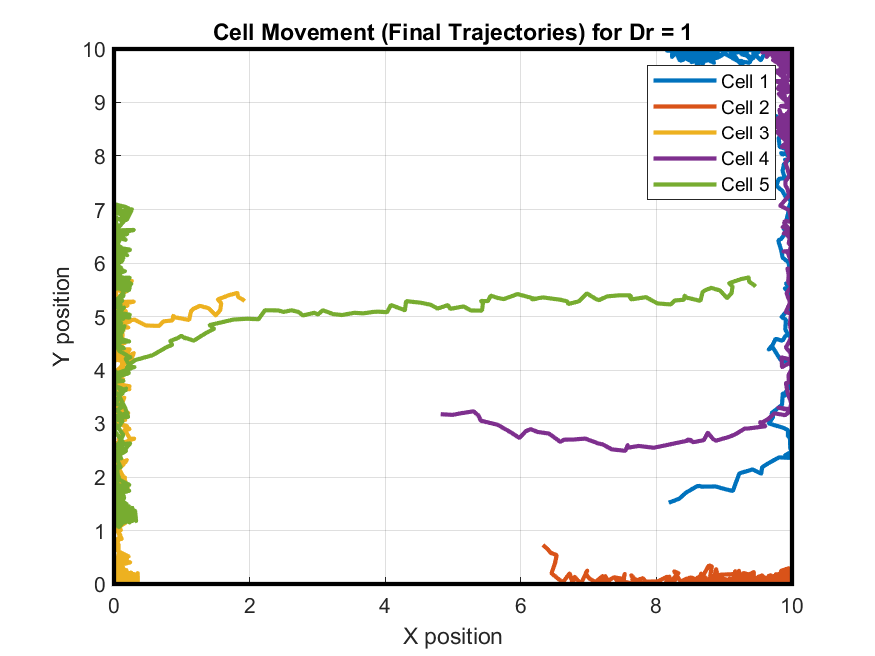
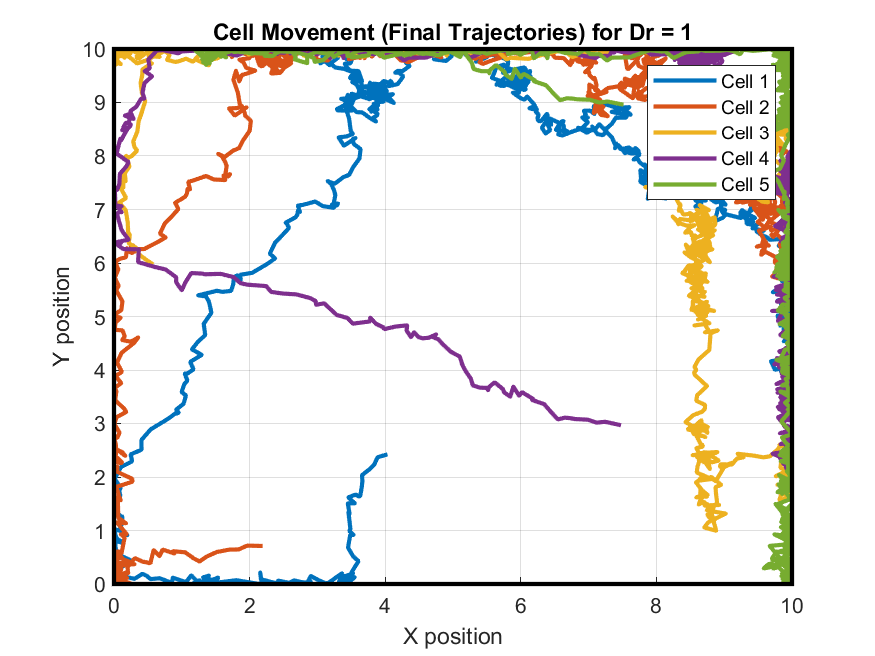
CIL component

diff --git a/Models_2024_04/Model1_2D_Hconst_multi_ref_boundary.m b/Models_2024_04/Model1_2D_Hconst_multi_ref_boundary.m
@@ -1,0 +1,213 @@
+close all; clear all; clc;
+start_time_full = tic;
+
+%%%%%%%%%%%%%%%%%%%%%%%%%%%%%%%%%%%%%%%%%%%%%%%%%%%%%%%%%%%%%%%%%%%%%%%%%%%%%%%%%%
+%           Euler-Maruyama method on Smeets Model for multiple cells             %
+%                  MULTI-CELL MODEL WITH REFLECTIVE BOUNDARY                     %
+%                                                                                %
+%   1) Eq. of Motion: Fm*{cos(θ),sin(θ)} = gamma_s*v_i + dfW2(t)                 %
+%   2) Eq. Repolarization SDE: d(θ)/dt = sqrt(2*Dr) * dfW1(t)                    %
+%   3) Eq. Repolarization direction: p_i_f = -Σ[(2*a_ij^2/d_ij^3)*(c_ij-x_ij)]   %
+%   4) Eq. direction vector: p_i_f = (cosθ*_i , sinθ*_i)^T                       %
+%   5) Eq. Repolarization CIL: d(θ)/dt = -fCIL(θi - θ*_i) + ξ * sqrt(2*Dr)       %
+%   6) Eq. of Intercellular Force: 2/R * [Ws - (Ws + Wc)/R * (dij - R)]          %
+%   7) Reflective Boundary Conditions                                            %
+%                                                                                %
+%%%%%%%%%%%%%%%%%%%%%%%%%%%%%%%%%%%%%%%%%%%%%%%%%%%%%%%%%%%%%%%%%%%%%%%%%%%%%%%%%%
+
+%% SET UP
+Dr_values = [0.1, 0.5, 1, 5, 100];
+num_cells = 5;  % Number of cells
+colors = lines(num_cells);  % Colors for each cell
+Wc = 1; % Cell-cell adhesion energy 
+Ws = 1; % Cell-substrate adhesion energy 
+R = 1;  % Cell radius
+interaction_threshold = 2 * R;  % Set to 2R as per the model
+
+% Simulation domain boundaries
+L = 10;  % Simulation square domain [0, L] x [0, L]
+
+for dr_val = 1:length(Dr_values)
+    start_time_model = tic;
+    
+    % Model Parameters
+    Fm = 1; 
+    gamma_s = 1; 
+    Dr = Dr_values(dr_val); 
+    alpha = 2.5;
+    
+    % Simulation Parameters
+    dt = 0.1; 
+    T = 100; 
+    Nts = floor(T/dt); 
+    Nts2 = linspace(0, T, Nts); 
+    
+    % Pre-allocate matrices for all cells
+    x_array = zeros(Nts, num_cells); 
+    y_array = zeros(Nts, num_cells); 
+    theta_array = zeros(Nts, num_cells);
+
+    for cell_idx = 1:num_cells    
+        % Definition for Fractional Brownian Motion for orientation (theta)
+        dfW1 = zeros(Nts,1); 
+        fbm_noise1 = fbm(Nts2, 0.5); % fBm with constant H = 0.5
+        dfW1(2:end) = diff(fbm_noise1);
+
+        % Definition for Fractional Brownian Motion for X and Y positions
+        dfW2_x = zeros(Nts, 1); 
+        dfW2_y = zeros(Nts, 1);
+        fbm_noise2_x = fbm(Nts2, 0.5); % fBm with constant H = 0.5
+        fbm_noise2_y = fbm(Nts2, 0.5);
+        dfW2_x(2:end) = diff(fbm_noise2_x);
+        dfW2_y(2:end) = diff(fbm_noise2_y);
+
+        % Initial conditions for each cell
+        x_array(1, cell_idx) = rand * L;  % Random initial X position within [0, L]
+        y_array(1, cell_idx) = rand * L;  % Random initial Y position within [0, L]
+        theta_array(1, cell_idx) = rand * 2 * pi;  % Random initial orientation
+    end
+
+    %% SIMULATION FOR ALL CELLS
+    for t = 2:Nts
+        for cell_idx = 1:num_cells
+            p_i_f_x = 0;  % direction vector in x
+            p_i_f_y = 0;  % direction vector in y
+            num_contacts = 0;
+
+            % CIL
+            for other_cell = 1:num_cells
+                if other_cell ~= cell_idx
+                    % Distance between cells
+                    d_ij = sqrt((x_array(t-1, cell_idx) - x_array(t-1, other_cell))^2 + ...
+                                (y_array(t-1, cell_idx) - y_array(t-1, other_cell))^2);
+
+                    if d_ij <= interaction_threshold
+                        % a_ij = (x_i - x_j) + 2R
+                        a_ij = (x_array(t-1, cell_idx) - x_array(t-1, other_cell)) + 2*R;
+
+                        % c_ij = x_i + d_ij / 2
+                        c_ij_x = x_array(t-1, cell_idx) + (x_array(t-1, other_cell) - x_array(t-1, cell_idx)) / 2;
+                        c_ij_y = y_array(t-1, cell_idx) + (y_array(t-1, other_cell) - y_array(t-1, cell_idx)) / 2;
+
+                        % Eq. Repolarization direction: p_i_f = -Σ[(2*a_ij^2/d_ij^3)*(c_ij-x_ij)] 
+                        p_i_f_x = p_i_f_x - (2 * a_ij^2 / d_ij^3) * (c_ij_x - x_array(t-1, cell_idx));
+                        p_i_f_y = p_i_f_y - (2 * a_ij^2 / d_ij^3) * (c_ij_y - y_array(t-1, cell_idx));
+                        num_contacts = num_contacts + 1;
+                    end
+                end
+            end
+
+            % Eq. Repolarization CIL or SDE
+            if num_contacts > 0
+                % direction vector: p_i_f = (cosθ*_i , sinθ*_i)^T  ->  Free angle: θ*_i = tan^-1(p_i_f_y, p_i_f_x)
+                theta_star_i = atan2(p_i_f_y, p_i_f_x);
+
+                %  Eq. Repolarization CIL (with contact)
+                fCIL = 0.1;
+                dtheta = -fCIL * (theta_array(t-1, cell_idx) - theta_star_i) + dfW1(t) * sqrt(2*Dr);
+            else
+                % Eq. Repolarization SDE (without contact)
+                dtheta = sqrt(2*Dr) * dfW1(t);
+            end
+            % Update angle
+            theta_array(t, cell_idx) = theta_array(t-1, cell_idx) + dtheta * dt;
+
+            % Eq. of Motion for X and Y
+            dx_dt = (Fm * cos(theta_array(t, cell_idx)) - alpha * dfW2_x(t)) / gamma_s;
+            dy_dt = (Fm * sin(theta_array(t, cell_idx)) - alpha * dfW2_y(t)) / gamma_s;
+            
+            %% Interaction with other cells
+            for other_cell = 1:num_cells
+                if other_cell ~= cell_idx
+                    % Distance between cells
+                    d_ij = sqrt((x_array(t-1, cell_idx) - x_array(t-1, other_cell))^2 + ...
+                                (y_array(t-1, cell_idx) - y_array(t-1, other_cell))^2);
+                    
+                    if d_ij <= interaction_threshold
+                        % Eq. of Intercellular Force
+                        F_int = (2/R) * (Ws - ((Ws + Wc)/R) * (d_ij - R));
+
+                        % Avoid division by zero
+                        if d_ij ~= 0
+                            % Components of the force
+                            dx_dt = dx_dt + F_int * (x_array(t-1, cell_idx) - x_array(t-1, other_cell)) / d_ij;
+                            dy_dt = dy_dt + F_int * (y_array(t-1, cell_idx) - y_array(t-1, other_cell)) / d_ij;
+                        else
+                            % If cells are at the exact same position, apply a random small force to separate them
+                            theta_rand = rand * 2 * pi;
+                            dx_dt = dx_dt + F_int * cos(theta_rand);
+                            dy_dt = dy_dt + F_int * sin(theta_rand);
+                        end
+                    end
+                end
+            end
+            
+            % Update position
+            new_x = x_array(t-1, cell_idx) + dx_dt * dt;
+            new_y = y_array(t-1, cell_idx) + dy_dt * dt;
+            
+            %% Reflective Boundary Conditions
+            % Check and enforce boundaries for X
+            if new_x < 0
+                new_x = -new_x;  % Reflect position
+                dx_dt = -dx_dt;  % Reverse velocity component
+            elseif new_x > L
+                new_x = 2*L - new_x;
+                dx_dt = -dx_dt;
+            end
+
+            % Check and enforce boundaries for Y
+            if new_y < 0
+                new_y = -new_y;
+                dy_dt = -dy_dt;
+            elseif new_y > L
+                new_y = 2*L - new_y;
+                dy_dt = -dy_dt;
+            end
+            
+            % Update position
+            x_array(t, cell_idx) = new_x;
+            y_array(t, cell_idx) = new_y;
+        end
+    end
+
+    % ------------------------  OUTPUTS  ------------------------ %
+
+    % Path for 'Output_Trajectories'
+    current_folder = fileparts(mfilename('fullpath'));
+    output_folder = fullfile(current_folder, 'Output_Trajectories_Boundary');
+
+    % Create folder if it doesn't exist
+    if ~exist(output_folder, 'dir')
+        mkdir(output_folder);
+    end
+
+    %% Plot final trajectories for all cells with distinct colors
+    figure;
+    hold on;
+    for cell_idx = 1:num_cells
+        plot(x_array(:, cell_idx), y_array(:, cell_idx), 'Color', colors(cell_idx,:), 'LineWidth', 2);
+    end
+    % Draw the boundary for visualization
+    rectangle('Position', [0, 0, L, L], 'EdgeColor', 'k', 'LineWidth', 2);
+    xlabel('X position');
+    ylabel('Y position');
+    title(['Cell Movement (Final Trajectories) for Dr = ', num2str(Dr)]);
+    legend(arrayfun(@(x) ['Cell ', num2str(x)], 1:num_cells, 'UniformOutput', false));
+    grid on;
+    hold off;
+    
+    % Name the file according to the Dr value
+    file_name = fullfile(output_folder, sprintf('Trajectory_Simulation_Boundary_Dr=%d.png', Dr));
+    
+    % Save the graph as PNG, overwrite if necessary
+    saveas(gcf, file_name);
+    
+    % Show the ejecution time for each simulation
+    end_time = toc(start_time_model);
+    fprintf('Completed Model for Dr=%.2f in: %.2f seconds\n', Dr_values(dr_val), end_time);
+end
+
+% Show the total ejecution time
+end_time_full = toc(start_time_full);
+fprintf('Completed ALL simulations in: %.2f seconds\n', end_time_full);

diff --git a/Models_2024_04/Model1_2D_Hconst_multi_per_boundary.m b/Models_2024_04/Model1_2D_Hconst_multi_per_boundary.m
@@ -3,12 +3,15 @@ start_time_full = tic;
 
 %%%%%%%%%%%%%%%%%%%%%%%%%%%%%%%%%%%%%%%%%%%%%%%%%%%%%%%%%%%%%%%%%%%%%%%%%%%%%%%%%%
 %           Euler-Maruyama method on Smeets Model for multiple cells             %
-%                        MULTI-CELL MODEL WITH BOUNDARY                          %
+%                  MULTI-CELL MODEL WITH REFLECTIVE BOUNDARY                     %
 %                                                                                %
-%   1) Eq. of Motion: Fm*{cos(theta),sin(theta)} = gamma_s*v_i + dfW2(t)         %
-%   2) Eq. Repolarization SDE: d(theta)/dt = sqrt(2*Dr)*dfW1(t)                  %
-%   3) Eq. of Intercellular Force: 2/R * [Ws - (Ws + Wc)/R * (dij - R)]          %
-%   4) Reflective Boundary Conditions                                            %
+%   1) Eq. of Motion: Fm*{cos(θ),sin(θ)} = gamma_s*v_i + dfW2(t)                 %
+%   2) Eq. Repolarization SDE: d(θ)/dt = sqrt(2*Dr) * dfW1(t)                    %
+%   3) Eq. Repolarization direction: p_i_f = -Σ[(2*a_ij^2/d_ij^3)*(c_ij-x_ij)]   %
+%   4) Eq. direction vector: p_i_f = (cosθ*_i , sinθ*_i)^T                       %
+%   5) Eq. Repolarization CIL: d(θ)/dt = -fCIL(θi - θ*_i) + ξ * sqrt(2*Dr)       %
+%   6) Eq. of Intercellular Force: 2/R * [Ws - (Ws + Wc)/R * (dij - R)]          %
+%   7) Reflective Boundary Conditions                                            %
 %                                                                                %
 %%%%%%%%%%%%%%%%%%%%%%%%%%%%%%%%%%%%%%%%%%%%%%%%%%%%%%%%%%%%%%%%%%%%%%%%%%%%%%%%%%
 
@@ -16,7 +19,7 @@ start_time_full = tic;
 Dr_values = [0.1, 0.5, 1, 5, 100];
 num_cells = 5;  % Number of cells
 colors = lines(num_cells);  % Colors for each cell
-Wc = 2; % Cell-cell adhesion energy 
+Wc = 1; % Cell-cell adhesion energy 
 Ws = 1; % Cell-substrate adhesion energy 
 R = 1;  % Cell radius
 interaction_threshold = 2 * R;  % Set to 2R as per the model
@@ -43,8 +46,8 @@ for dr_val = 1:length(Dr_values)
     x_array = zeros(Nts, num_cells); 
     y_array = zeros(Nts, num_cells); 
     theta_array = zeros(Nts, num_cells);
-    
-    for cell_idx = 1:num_cells
+
+    for cell_idx = 1:num_cells    
         % Definition for Fractional Brownian Motion for orientation (theta)
         dfW1 = zeros(Nts,1); 
         fbm_noise1 = fbm(Nts2, 0.5); % fBm with constant H = 0.5
@@ -67,11 +70,49 @@ for dr_val = 1:length(Dr_values)
     %% SIMULATION FOR ALL CELLS
     for t = 2:Nts
         for cell_idx = 1:num_cells
-            % Eq. Repolarization SDE: d(theta)/dt = sqrt(2*Dr)*dfW1(t)
-            dtheta = sqrt(2*Dr) * dfW1(t);
+            p_i_f_x = 0;  % direction vector in x
+            p_i_f_y = 0;  % direction vector in y
+            num_contacts = 0;
+
+            % CIL
+            for other_cell = 1:num_cells
+                if other_cell ~= cell_idx
+                    % Distance between cells
+                    d_ij = sqrt((x_array(t-1, cell_idx) - x_array(t-1, other_cell))^2 + ...
+                                (y_array(t-1, cell_idx) - y_array(t-1, other_cell))^2);
+
+                    if d_ij <= interaction_threshold
+                        % a_ij = (x_i - x_j) + 2R
+                        a_ij = (x_array(t-1, cell_idx) - x_array(t-1, other_cell)) + 2*R;
+
+                        % c_ij = x_i + d_ij / 2
+                        c_ij_x = x_array(t-1, cell_idx) + (x_array(t-1, other_cell) - x_array(t-1, cell_idx)) / 2;
+                        c_ij_y = y_array(t-1, cell_idx) + (y_array(t-1, other_cell) - y_array(t-1, cell_idx)) / 2;
+
+                        % Eq. Repolarization direction: p_i_f = -Σ[(2*a_ij^2/d_ij^3)*(c_ij-x_ij)] 
+                        p_i_f_x = p_i_f_x - (2 * a_ij^2 / d_ij^3) * (c_ij_x - x_array(t-1, cell_idx));
+                        p_i_f_y = p_i_f_y - (2 * a_ij^2 / d_ij^3) * (c_ij_y - y_array(t-1, cell_idx));
+                        num_contacts = num_contacts + 1;
+                    end
+                end
+            end
+
+            % Eq. Repolarization CIL or SDE
+            if num_contacts > 0
+                % direction vector: p_i_f = (cosθ*_i , sinθ*_i)^T  ->  Free angle: θ*_i = tan^-1(p_i_f_y, p_i_f_x)
+                theta_star_i = atan2(p_i_f_y, p_i_f_x);
+
+                %  Eq. Repolarization CIL (with contact)
+                fCIL = 0.1;
+                dtheta = -fCIL * (theta_array(t-1, cell_idx) - theta_star_i) + dfW1(t) * sqrt(2*Dr);
+            else
+                % Eq. Repolarization SDE (without contact)
+                dtheta = sqrt(2*Dr) * dfW1(t);
+            end
+            % Update angle
             theta_array(t, cell_idx) = theta_array(t-1, cell_idx) + dtheta * dt;
 
-            % Eq. of Motion for X and Y without interactions
+            % Eq. of Motion for X and Y
             dx_dt = (Fm * cos(theta_array(t, cell_idx)) - alpha * dfW2_x(t)) / gamma_s;
             dy_dt = (Fm * sin(theta_array(t, cell_idx)) - alpha * dfW2_y(t)) / gamma_s;
             
